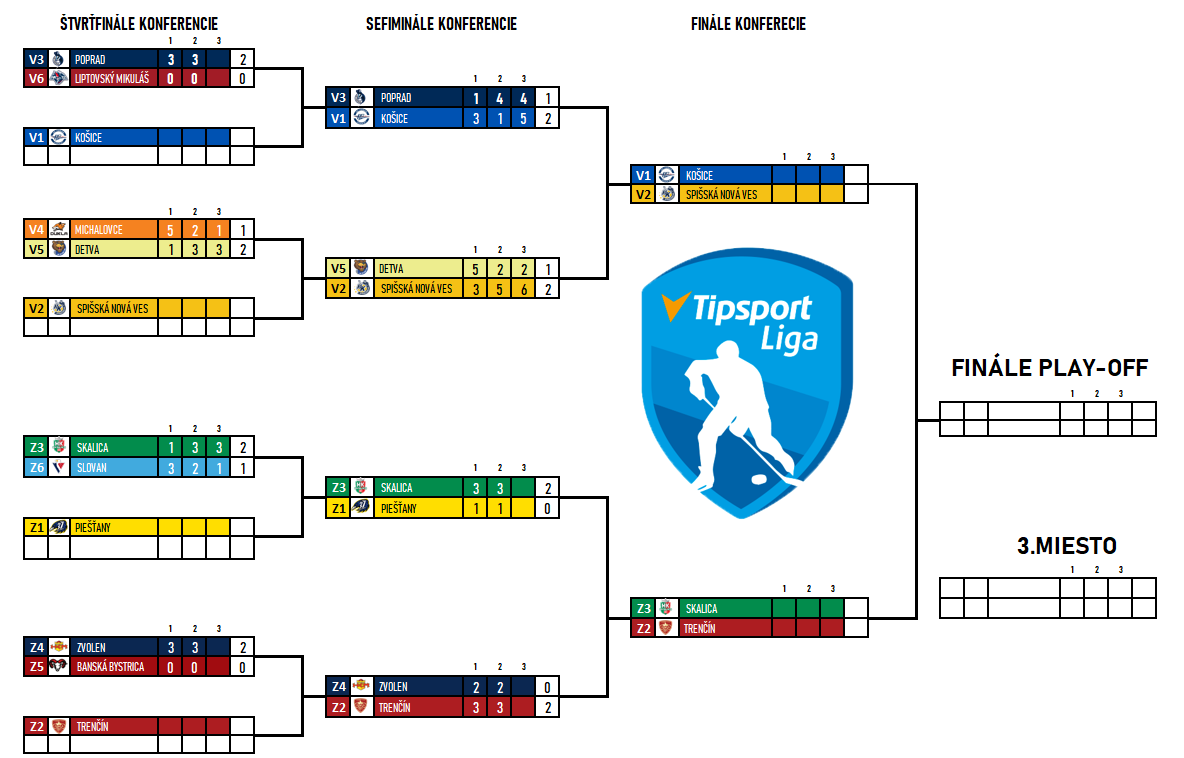
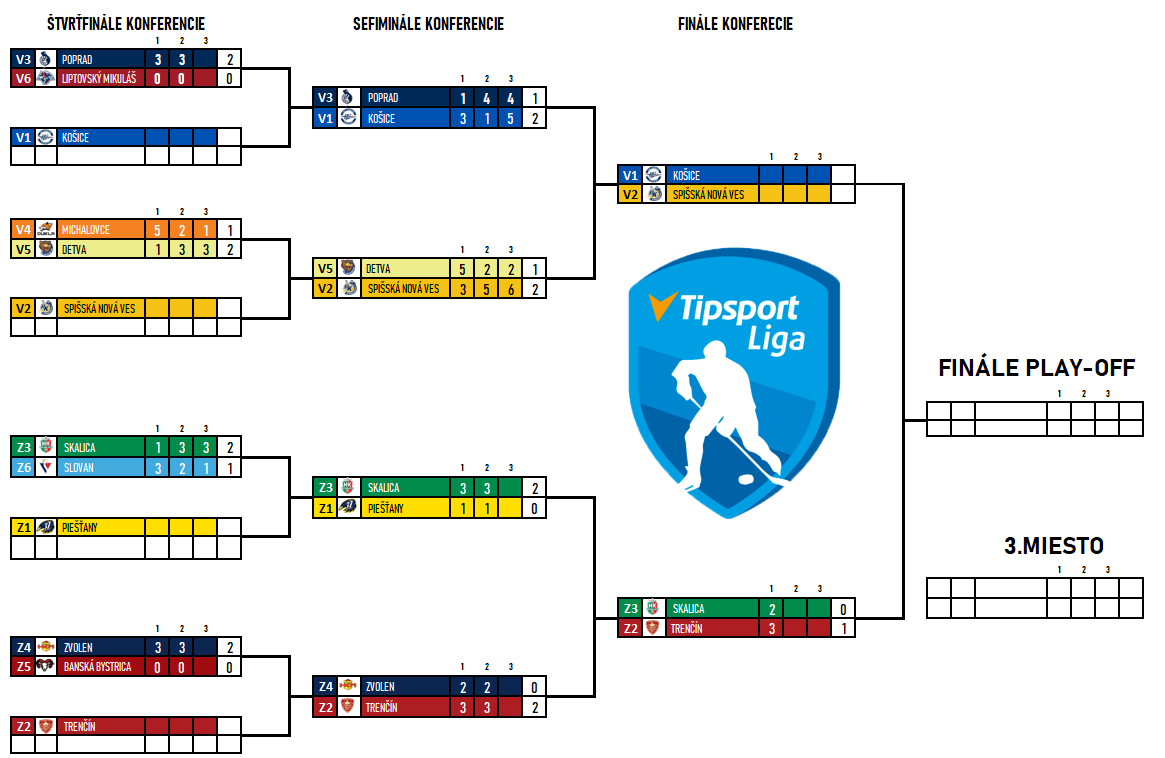
ss

diff --git a/play-off-rozpis.html b/play-off-rozpis.html
@@ -230,15 +230,15 @@
       </tr>  
      
       <tr>
-        <td class="datum">1.zápas 19.7.2020</td>
+        <td class="naplanovane" class="datum">1.zápas 19.7.2020</td>
         <td class="logo"><img src="images/trencin.png" height="19"></td>
         <td class="club-name"><a href="https://www.hockeyarena.net/sk/index.php?p=public_team_info_basic.php&team_id=29244" style="text-decoration-style: none; color: black;">Trenčín</a></td>
-        <td class="match"><b>:</b></td>
+        <td class="match"><b>3:2sn</b></td>
         <td class="logo"><img src="images/Skalica.png" height="19"></td>
         <td class="club-name"><a href="https://www.hockeyarena.net/sk/index.php?p=public_team_info_basic.php&team_id=2991" style="text-decoration-style: none; color: black;">Skalica</a></td>
       </tr>
        <tr>
-        <td class="datum">2.zápas 22.7.2020</td>
+        <td class="naplanovane" class="datum">2.zápas 22.7.2020</td>
         <td class="logo"><img src="images/Skalica.png" height="19"></td>
         <td class="club-name"><a href="https://www.hockeyarena.net/sk/index.php?p=public_team_info_basic.php&team_id=2991" style="text-decoration-style: none; color: black;">Skalica</a></td>
         <td class="match"><b>:</b></td>
